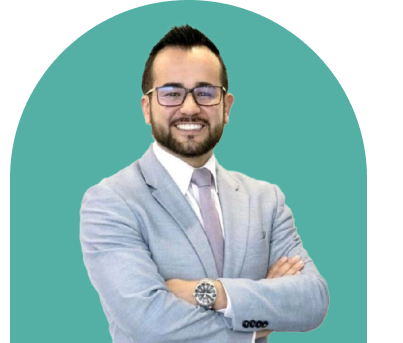
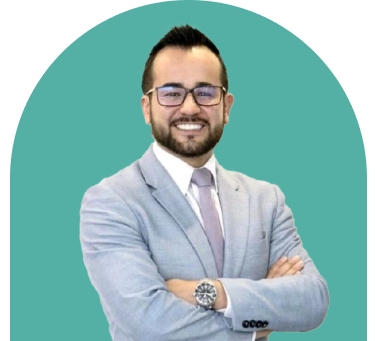
Content changes

diff --git a/dist/ru/index.html b/dist/ru/index.html
@@ -180,6 +180,7 @@ Lift<br>подъем для вашей<br>
 </figcaption>
 </figure>
 <picture>
+<source srcset="../assets/img/testimonial-marcelo@2x.png 2x, ../assets/img/testimonial-marcelo.png">
 <img src="../assets/img/testimonial-marcelo.png" alt="Марсело Эшпинель заместитель директора, Fundación Ciudadanía y Desarrollo">
 </picture>
 </div>
@@ -196,7 +197,8 @@ Lift<br>подъем для вашей<br>
 </figcaption>
 </figure>
 <picture>
-<img src="../assets/img/testimonial-marcelo.png" alt="Анхелес Феррейра Управление закупок и контрактов, Министерство финансов, Буэнос-Айрес">
+<source srcset="../assets/img/testimonial-angeles@2x.png 2x, ../assets/img/testimonial-angeles.png">
+<img src="../assets/img/testimonial-angeles.png" alt="Анхелес Феррейра Управление закупок и контрактов, Министерство финансов, Буэнос-Айрес">
 </picture>
 </div>
 </div>
@@ -212,6 +214,7 @@ Lift<br>подъем для вашей<br>
 </figcaption>
 </figure>
 <picture>
+<source srcset="../assets/img/testimonial-bike@2x.png 2x, ../assets/img/testimonial-bike.png">
 <img src="../assets/img/testimonial-bike.png" alt=" ">
 </picture>
 </div>
@@ -222,7 +225,23 @@ Lift<br>подъем для вашей<br>
 <div class="swiper-button-next"></div>
 </div></div>
 </section>
-</main><footer>
+</main><section class="applyBanner">
+<div class="container">
+<picture class="bumperGraphic bumperGraphic--top bumperGraphic--left">
+<source srcset="../assets/img/graphic-fill-left.svg" type="image/svg+xml">
+<img src="../assets/img/graphic-fill-left.png" alt="icon">
+</picture>
+<picture class="bumperGraphic bumperGraphic--top bumperGraphic--right">
+<source srcset="../assets/img/graphic-fill-right.svg" type="image/svg+xml">
+<img src="../assets/img/graphic-fill-right.png" alt="icon">
+</picture>
+<div class="textWrap">
+<h2>Готовы<br>начинать?</h2>
+<p>Мы рассматриваем самые разные команды, у которых есть масштабные идеи использования открытого контрактирования для борьбы с коррупцией, укрепления демократических институтов, защиты окружающей среды или повышения климатической устойчивости, а также улучшения социальной инклюзивности.</p>
+<a href="../ru/apply" class="ctaButton ctaButton--primary">Подавайте заявку</a>
+</div>
+</div>
+</section><footer>
 <div class="container container--flex">
 <div class="footer__topRow">
 <img src="../assets/img/ocp-logo-white.svg">

diff --git a/dist/es/index.html b/dist/es/index.html
@@ -181,6 +181,7 @@ Marcelo Espinel<br>
 </figcaption>
 </figure>
 <picture>
+<source srcset="../assets/img/testimonial-marcelo@2x.png 2x, ../assets/img/testimonial-marcelo.png">
 <img src="../assets/img/testimonial-marcelo.png" alt="Marcelo Espinel Deputy director, Fundación Ciudadanía y Desarrollo">
 </picture>
 </div>
@@ -197,7 +198,8 @@ Marcelo Espinel<br>
 </figcaption>
 </figure>
 <picture>
-<img src="../assets/img/testimonial-marcelo.png" alt="Ángeles Ferreyra Office of Purchasing and Contracts, Ministry of Finance, City of Buenos Aires">
+<source srcset="../assets/img/testimonial-angeles@2x.png 2x, ../assets/img/testimonial-angeles.png">
+<img src="../assets/img/testimonial-angeles.png" alt="Ángeles Ferreyra Office of Purchasing and Contracts, Ministry of Finance, City of Buenos Aires">
 </picture>
 </div>
 </div>
@@ -213,6 +215,7 @@ Marcelo Espinel<br>
 </figcaption>
 </figure>
 <picture>
+<source srcset="../assets/img/testimonial-bike@2x.png 2x, ../assets/img/testimonial-bike.png">
 <img src="../assets/img/testimonial-bike.png" alt=" ">
 </picture>
 </div>
@@ -223,7 +226,23 @@ Marcelo Espinel<br>
 <div class="swiper-button-next"></div>
 </div></div>
 </section>
-</main><footer>
+</main><section class="applyBanner">
+<div class="container">
+<picture class="bumperGraphic bumperGraphic--top bumperGraphic--left">
+<source srcset="../assets/img/graphic-fill-left.svg" type="image/svg+xml">
+<img src="../assets/img/graphic-fill-left.png" alt="icon">
+</picture>
+<picture class="bumperGraphic bumperGraphic--top bumperGraphic--right">
+<source srcset="../assets/img/graphic-fill-right.svg" type="image/svg+xml">
+<img src="../assets/img/graphic-fill-right.png" alt="icon">
+</picture>
+<div class="textWrap">
+<h2>Ready to<br>get started?</h2>
+<p>We are looking for a variety of teams that have big ideas for using open contracting to fight corruption and strengthen democratic institutions, protect the environment or improve climate resilience, or promote social inclusion.</p>
+<a href="../es/apply" class="ctaButton ctaButton--primary">Apply now</a>
+</div>
+</div>
+</section><footer>
 <div class="container container--flex">
 <div class="footer__topRow">
 <img src="../assets/img/ocp-logo-white.svg">

diff --git a/dist/fr/index.html b/dist/fr/index.html
@@ -182,6 +182,7 @@ Marcelo Espinel<br>
 </figcaption>
 </figure>
 <picture>
+<source srcset="../assets/img/testimonial-marcelo@2x.png 2x, ../assets/img/testimonial-marcelo.png">
 <img src="../assets/img/testimonial-marcelo.png" alt="Marcelo Espinel Directeur adjoint,  Fundación Ciudadanía y Desarrollo">
 </picture>
 </div>
@@ -198,7 +199,8 @@ Marcelo Espinel<br>
 </figcaption>
 </figure>
 <picture>
-<img src="../assets/img/testimonial-marcelo.png" alt="Ángeles Ferreyra Bureau Approvisionnement et contrats, Ministère des finances, Ville de Buenos Aires">
+<source srcset="../assets/img/testimonial-angeles@2x.png 2x, ../assets/img/testimonial-angeles.png">
+<img src="../assets/img/testimonial-angeles.png" alt="Ángeles Ferreyra Bureau Approvisionnement et contrats, Ministère des finances, Ville de Buenos Aires">
 </picture>
 </div>
 </div>
@@ -208,7 +210,23 @@ Marcelo Espinel<br>
 <div class="swiper-button-next"></div>
 </div></div>
 </section>
-</main><footer>
+</main><section class="applyBanner">
+<div class="container">
+<picture class="bumperGraphic bumperGraphic--top bumperGraphic--left">
+<source srcset="../assets/img/graphic-fill-left.svg" type="image/svg+xml">
+<img src="../assets/img/graphic-fill-left.png" alt="icon">
+</picture>
+<picture class="bumperGraphic bumperGraphic--top bumperGraphic--right">
+<source srcset="../assets/img/graphic-fill-right.svg" type="image/svg+xml">
+<img src="../assets/img/graphic-fill-right.png" alt="icon">
+</picture>
+<div class="textWrap">
+<h2>Vous êtes prêt<br>à commencer ?</h2>
+<p>Nous sommes à la recherche d’équipes porteuses de grandes idées pour utiliser la commande publique ouverte afin de lutter contre la corruption et renforcer les institutions démocratiques, protéger l’environnement ou améliorer la résilience climatique, ou encore promouvoir l’inclusion sociale.</p>
+<a href="../fr/apply" class="ctaButton ctaButton--primary">Postulez</a>
+</div>
+</div>
+</section><footer>
 <div class="container container--flex">
 <div class="footer__topRow">
 <img src="../assets/img/ocp-logo-white.svg">

diff --git a/dist/ru/program/index.html b/dist/ru/program/index.html
@@ -274,7 +274,23 @@ Aвгуст 2023 года
 </div>
 </div>
 </section>
-</main><footer>
+</main><section class="applyBanner">
+<div class="container">
+<picture class="bumperGraphic bumperGraphic--top bumperGraphic--left">
+<source srcset="../../assets/img/graphic-fill-left.svg" type="image/svg+xml">
+<img src="../../assets/img/graphic-fill-left.png" alt="icon">
+</picture>
+<picture class="bumperGraphic bumperGraphic--top bumperGraphic--right">
+<source srcset="../../assets/img/graphic-fill-right.svg" type="image/svg+xml">
+<img src="../../assets/img/graphic-fill-right.png" alt="icon">
+</picture>
+<div class="textWrap">
+<h2>Готовы<br>начинать?</h2>
+<p>Мы рассматриваем самые разные команды, у которых есть масштабные идеи использования открытого контрактирования для борьбы с коррупцией, укрепления демократических институтов, защиты окружающей среды или повышения климатической устойчивости, а также улучшения социальной инклюзивности.</p>
+<a href="../../ru/apply" class="ctaButton ctaButton--primary">Подавайте заявку</a>
+</div>
+</div>
+</section><footer>
 <div class="container container--flex">
 <div class="footer__topRow">
 <img src="../../assets/img/ocp-logo-white.svg">

diff --git a/dist/ru/faq/index.html b/dist/ru/faq/index.html
@@ -255,7 +255,23 @@
 </div>
 </div>
 </section>
-</main><footer>
+</main><section class="applyBanner">
+<div class="container">
+<picture class="bumperGraphic bumperGraphic--top bumperGraphic--left">
+<source srcset="../../assets/img/graphic-fill-left.svg" type="image/svg+xml">
+<img src="../../assets/img/graphic-fill-left.png" alt="icon">
+</picture>
+<picture class="bumperGraphic bumperGraphic--top bumperGraphic--right">
+<source srcset="../../assets/img/graphic-fill-right.svg" type="image/svg+xml">
+<img src="../../assets/img/graphic-fill-right.png" alt="icon">
+</picture>
+<div class="textWrap">
+<h2>Готовы<br>начинать?</h2>
+<p>Мы рассматриваем самые разные команды, у которых есть масштабные идеи использования открытого контрактирования для борьбы с коррупцией, укрепления демократических институтов, защиты окружающей среды или повышения климатической устойчивости, а также улучшения социальной инклюзивности.</p>
+<a href="../../ru/apply" class="ctaButton ctaButton--primary">Подавайте заявку</a>
+</div>
+</div>
+</section><footer>
 <div class="container container--flex">
 <div class="footer__topRow">
 <img src="../../assets/img/ocp-logo-white.svg">

diff --git a/dist/fr/faq/index.html b/dist/fr/faq/index.html
@@ -255,7 +255,23 @@ Quel soutien le programme Open Contracting Lift offrira-t-il à mon équipe ?
 </div>
 </div>
 </section>
-</main><footer>
+</main><section class="applyBanner">
+<div class="container">
+<picture class="bumperGraphic bumperGraphic--top bumperGraphic--left">
+<source srcset="../../assets/img/graphic-fill-left.svg" type="image/svg+xml">
+<img src="../../assets/img/graphic-fill-left.png" alt="icon">
+</picture>
+<picture class="bumperGraphic bumperGraphic--top bumperGraphic--right">
+<source srcset="../../assets/img/graphic-fill-right.svg" type="image/svg+xml">
+<img src="../../assets/img/graphic-fill-right.png" alt="icon">
+</picture>
+<div class="textWrap">
+<h2>Vous êtes prêt<br>à commencer ?</h2>
+<p>Nous sommes à la recherche d’équipes porteuses de grandes idées pour utiliser la commande publique ouverte afin de lutter contre la corruption et renforcer les institutions démocratiques, protéger l’environnement ou améliorer la résilience climatique, ou encore promouvoir l’inclusion sociale.</p>
+<a href="../../fr/apply" class="ctaButton ctaButton--primary">Postulez</a>
+</div>
+</div>
+</section><footer>
 <div class="container container--flex">
 <div class="footer__topRow">
 <img src="../../assets/img/ocp-logo-white.svg">

diff --git a/dist/fr/program/index.html b/dist/fr/program/index.html
@@ -274,7 +274,23 @@ Pendant le programme
 </div>
 </div>
 </section>
-</main><footer>
+</main><section class="applyBanner">
+<div class="container">
+<picture class="bumperGraphic bumperGraphic--top bumperGraphic--left">
+<source srcset="../../assets/img/graphic-fill-left.svg" type="image/svg+xml">
+<img src="../../assets/img/graphic-fill-left.png" alt="icon">
+</picture>
+<picture class="bumperGraphic bumperGraphic--top bumperGraphic--right">
+<source srcset="../../assets/img/graphic-fill-right.svg" type="image/svg+xml">
+<img src="../../assets/img/graphic-fill-right.png" alt="icon">
+</picture>
+<div class="textWrap">
+<h2>Vous êtes prêt<br>à commencer ?</h2>
+<p>Nous sommes à la recherche d’équipes porteuses de grandes idées pour utiliser la commande publique ouverte afin de lutter contre la corruption et renforcer les institutions démocratiques, protéger l’environnement ou améliorer la résilience climatique, ou encore promouvoir l’inclusion sociale.</p>
+<a href="../../fr/apply" class="ctaButton ctaButton--primary">Postulez</a>
+</div>
+</div>
+</section><footer>
 <div class="container container--flex">
 <div class="footer__topRow">
 <img src="../../assets/img/ocp-logo-white.svg">

diff --git a/dist/es/faq/index.html b/dist/es/faq/index.html
@@ -255,7 +255,23 @@ What support will the Open Contracting Lift program offer my team?
 </div>
 </div>
 </section>
-</main><footer>
+</main><section class="applyBanner">
+<div class="container">
+<picture class="bumperGraphic bumperGraphic--top bumperGraphic--left">
+<source srcset="../../assets/img/graphic-fill-left.svg" type="image/svg+xml">
+<img src="../../assets/img/graphic-fill-left.png" alt="icon">
+</picture>
+<picture class="bumperGraphic bumperGraphic--top bumperGraphic--right">
+<source srcset="../../assets/img/graphic-fill-right.svg" type="image/svg+xml">
+<img src="../../assets/img/graphic-fill-right.png" alt="icon">
+</picture>
+<div class="textWrap">
+<h2>Ready to<br>get started?</h2>
+<p>We are looking for a variety of teams that have big ideas for using open contracting to fight corruption and strengthen democratic institutions, protect the environment or improve climate resilience, or promote social inclusion.</p>
+<a href="../../es/apply" class="ctaButton ctaButton--primary">Apply now</a>
+</div>
+</div>
+</section><footer>
 <div class="container container--flex">
 <div class="footer__topRow">
 <img src="../../assets/img/ocp-logo-white.svg">

diff --git a/dist/es/program/index.html b/dist/es/program/index.html
@@ -274,7 +274,23 @@ During the program
 </div>
 </div>
 </section>
-</main><footer>
+</main><section class="applyBanner">
+<div class="container">
+<picture class="bumperGraphic bumperGraphic--top bumperGraphic--left">
+<source srcset="../../assets/img/graphic-fill-left.svg" type="image/svg+xml">
+<img src="../../assets/img/graphic-fill-left.png" alt="icon">
+</picture>
+<picture class="bumperGraphic bumperGraphic--top bumperGraphic--right">
+<source srcset="../../assets/img/graphic-fill-right.svg" type="image/svg+xml">
+<img src="../../assets/img/graphic-fill-right.png" alt="icon">
+</picture>
+<div class="textWrap">
+<h2>Ready to<br>get started?</h2>
+<p>We are looking for a variety of teams that have big ideas for using open contracting to fight corruption and strengthen democratic institutions, protect the environment or improve climate resilience, or promote social inclusion.</p>
+<a href="../../es/apply" class="ctaButton ctaButton--primary">Apply now</a>
+</div>
+</div>
+</section><footer>
 <div class="container container--flex">
 <div class="footer__topRow">
 <img src="../../assets/img/ocp-logo-white.svg">

diff --git a/dist/index.html b/dist/index.html
@@ -181,6 +181,7 @@ Marcelo Espinel<br>
 </figcaption>
 </figure>
 <picture>
+<source srcset="assets/img/testimonial-marcelo@2x.png 2x, assets/img/testimonial-marcelo.png">
 <img src="assets/img/testimonial-marcelo.png" alt="Marcelo Espinel Deputy director, Fundación Ciudadanía y Desarrollo">
 </picture>
 </div>
@@ -197,7 +198,8 @@ Marcelo Espinel<br>
 </figcaption>
 </figure>
 <picture>
-<img src="assets/img/testimonial-marcelo.png" alt="Ángeles Ferreyra Office of Purchasing and Contracts, Ministry of Finance, City of Buenos Aires">
+<source srcset="assets/img/testimonial-angeles@2x.png 2x, assets/img/testimonial-angeles.png">
+<img src="assets/img/testimonial-angeles.png" alt="Ángeles Ferreyra Office of Purchasing and Contracts, Ministry of Finance, City of Buenos Aires">
 </picture>
 </div>
 </div>
@@ -213,6 +215,7 @@ Program participant<br>
 </figcaption>
 </figure>
 <picture>
+<source srcset="assets/img/testimonial-bike@2x.png 2x, assets/img/testimonial-bike.png">
 <img src="assets/img/testimonial-bike.png" alt="Program participant From a bike-share program in Mexico City">
 </picture>
 </div>

diff --git a/src/partials/testimonials.html b/src/partials/testimonials.html
@@ -15,9 +15,9 @@
                     </figcaption>
                 </figure>
                 <picture>
-                    <!-- <source
-                        srcset="{{@root.root}}assets/img/{{this.img}}.webp"
-                        type="image/webp"> -->
+                    <source
+                        srcset="{{@root.root}}assets/img/{{this.img}}@2x.png 2x,
+                                {{@root.root}}assets/img/{{this.img}}.png 1x">
                     <img src="{{@root.root}}assets/img/{{this.img}}.png"
                         alt="{{this.name}} {{this.title}}" />
                 </picture>

diff --git a/src/pages/es/program/index.html b/src/pages/es/program/index.html
@@ -3,4 +3,5 @@ layout: es
 ---
 {{> header}}
 {{> program}} 
+{{> applyBanner}}
 {{> footer}}
